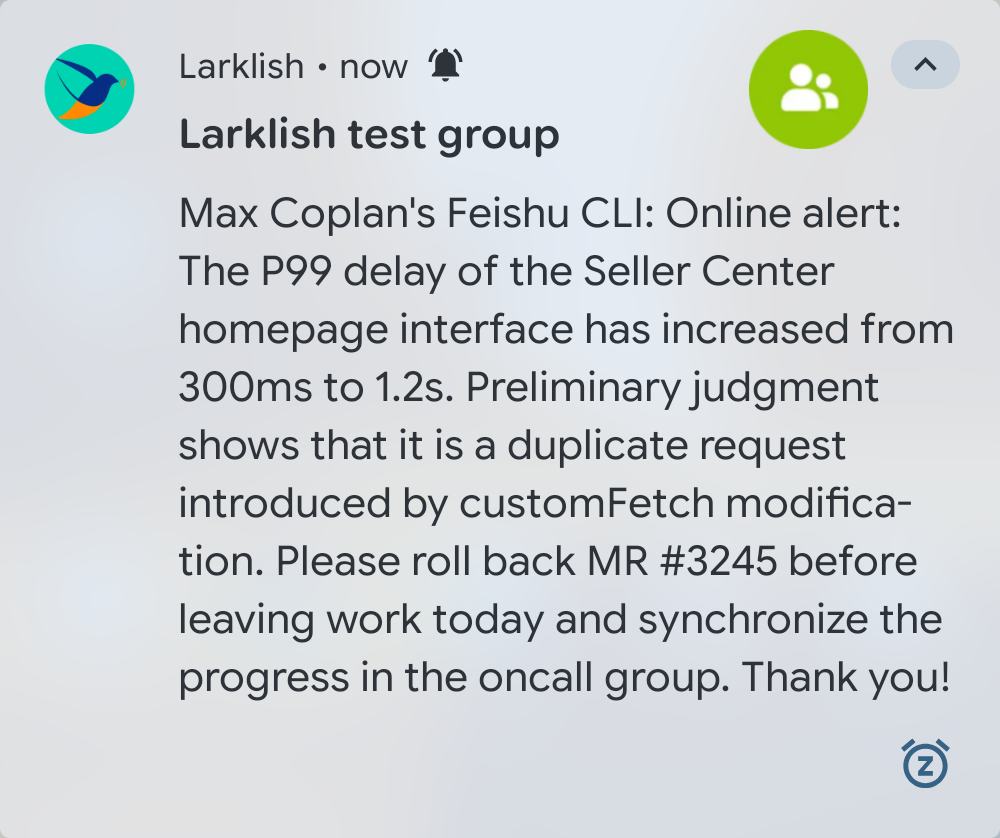
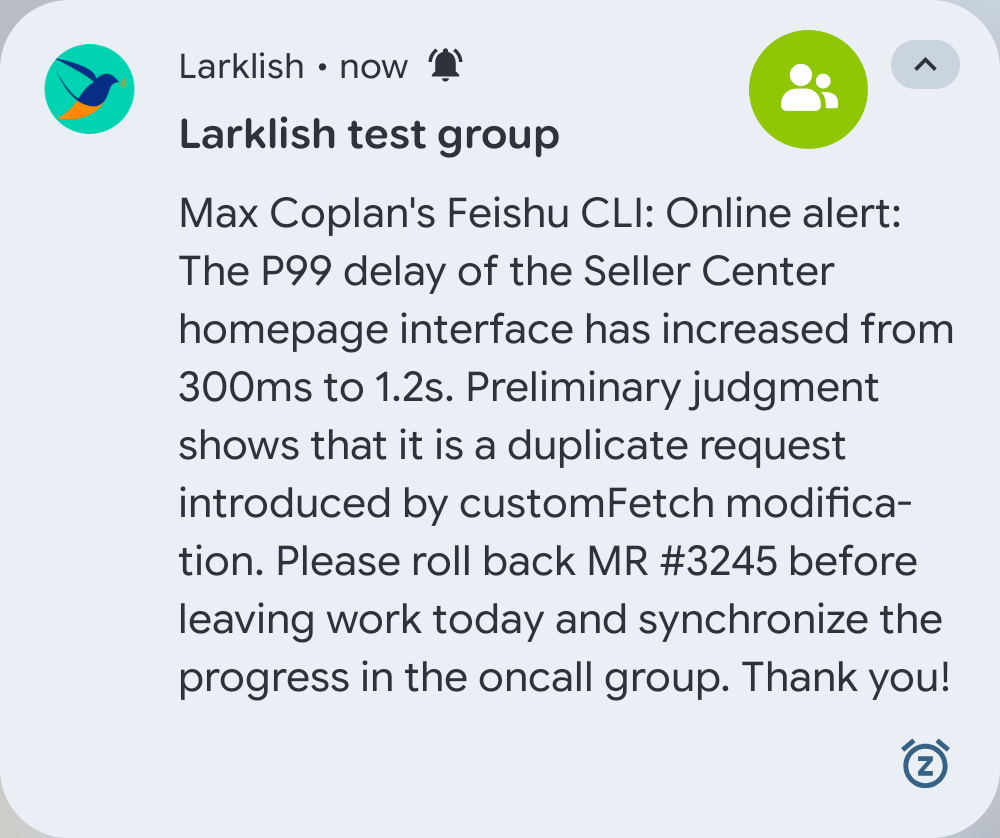
docs: showcase 1 re-shot on the push path, Lark's Original cut
The first pair had a whole Original because Lark's process had just been in
the foreground. Re-shot in deep idle: cut at 45 characters, restored through
the Backend. README row and a progress entry follow.

Claude-Session: https://claude.ai/code/session_01JKEVNYEFmtSwFctVRfnAV5

diff --git a/tools/larklish_helper.py b/tools/larklish_helper.py
@@ -778,8 +778,8 @@ def compose(slug: str, caption: str) -> str:
     larklish = rounded(
         Image.open(f"{SHOWCASE_DIR}/{slug}-larklish.png").convert("RGBA")
     )
-    font = ImageFont.truetype("/System/Library/Fonts/Helvetica.ttc", 44)
-    small = ImageFont.truetype("/System/Library/Fonts/Helvetica.ttc", 36)
+    font = ImageFont.truetype("/Library/Fonts/Helvetica.ttc", 44)
+    small = ImageFont.truetype("/Library/Fonts/Helvetica.ttc", 36)
     top = PAD + 70 + 40  # caption line, label line
     page = Image.new(
         "RGB",

diff --git a/docs/showcase/README.md b/docs/showcase/README.md
@@ -6,7 +6,7 @@ Larklish's Relay, cropped from the same shade and placed side by side (`tools/la
 
 | File | What it shows |
 | --- | --- |
-| `01-chinese.png` | A Chinese alert → English, with `P99`, `300ms`, `customFetch`, `MR #3245` intact. Lark's process was recently active, so the Original arrived whole and the phone translated the Preview itself. |
+| `01-chinese.png` | A 90-character Chinese alert. Lark cut it at 45 characters; the Backend found the message and the Relay shows all of it in English, with `P99`, `300ms`, `customFetch`, `MR #3245` intact. |
 | `02-english.png` | A 280-character English message. Lark cut it at 45 characters (`release train...`); the Backend found the message and the Relay shows all of it. |
 | `03-mention.png` | A Chinese message that @-mentions Max. Lark cut it; the Relay keeps `@you`, `@Max Coplan`, the MR number and the code names, in English. |
 

diff --git a/docs/progress.md b/docs/progress.md
@@ -1888,3 +1888,12 @@ Max's exception to the "many times first" rule: the showcase images will be re-s
   the guard message from an isolated env; `showcase --no-send` on the pair in the shade.
 
 Next: unchanged — Max picks the showcase images; the stale-Relay check is a Later item.
+
+### 2026-09-03 — showcase 1 re-shot on the push path
+
+Max asked why the Chinese Original in showcase 1 was whole: Lark's process had been in the
+foreground six minutes earlier and composed the notification itself. Re-shot with the phone in
+deep idle: the same 90-character alert arrived cut at 45 characters, the Backend found it
+(15:20), and the Relay shows all of it in English. `docs/showcase/01-chinese.png` replaced.
+
+Next: unchanged.
